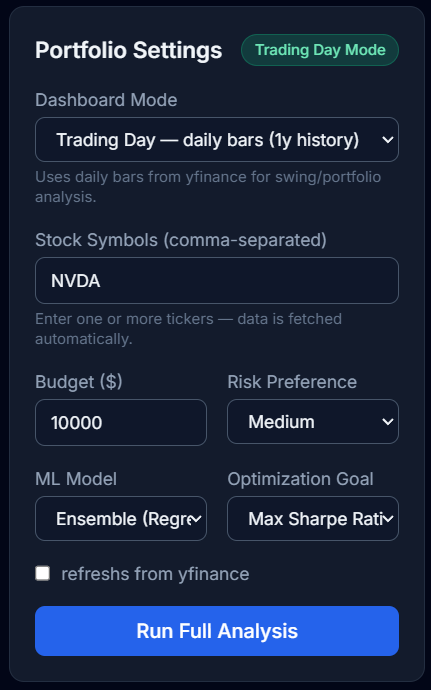
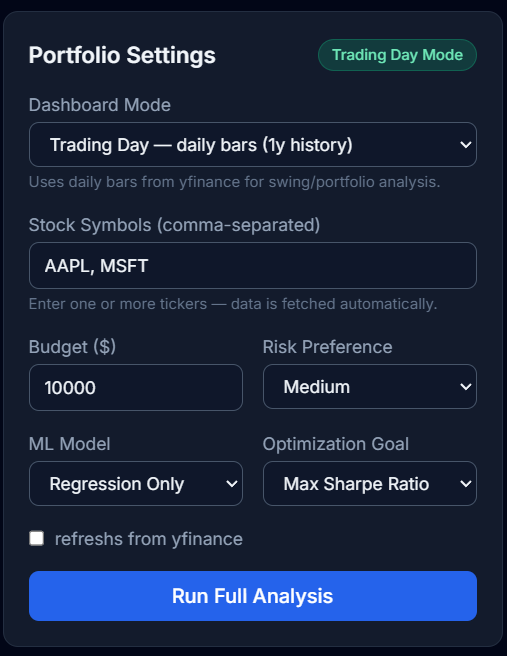
- images

diff --git a/frontend/src/components/PriceTrendChart.jsx b/frontend/src/components/PriceTrendChart.jsx
@@ -2,10 +2,13 @@ import { CartesianGrid, Legend, Line, LineChart, ResponsiveContainer, Tooltip, X
 
 const COLORS = ['#3b82f6', '#10b981', '#f59e0b', '#ef4444', '#8b5cf6']
 
-function formatDateLabel(date) {
+function formatDateLabel(date, mode) {
   if (!date) return ''
-  // Normalize for both ISO dates (YYYY-MM-DD) and ISO datetimes (YYYY-MM-DD HH:mm:ss)
   const d = String(date)
+  if (mode === 'intraday' && d.includes(' ')) {
+    const timePart = d.split(' ')[1]
+    return timePart ? timePart.slice(0, 5) : d
+  }
   const datePart = d.includes(' ') ? d.split(' ')[0] : d
   if (!datePart.includes('-')) return d
   const mm = datePart.slice(5, 7)
@@ -24,7 +27,7 @@ function isMMDD(dateStr) {
   return typeof dateStr === 'string' && dateStr.length === 5 && dateStr[2] === '-'
 }
 
-export default function PriceTrendChart({ priceHistory = {}, selectedSymbol, mode = 'daily' }) {
+export default function PriceTrendChart({ priceHistory = {}, selectedSymbol, mode = 'daily', livePriceHistory = {} }) {
   const todayMMDD = getTodayMMDD()
   const symbols = selectedSymbol ? [selectedSymbol] : Object.keys(priceHistory).slice(0, 4)
 
@@ -34,7 +37,7 @@ export default function PriceTrendChart({ priceHistory = {}, selectedSymbol, mod
 
   const chartData = dates
     .map((date, i) => {
-      const label = formatDateLabel(date)
+      const label = formatDateLabel(date, mode)
       const point = { date: label, fullDate: date }
       symbols.forEach((sym) => {
         point[sym] = priceHistory[sym]?.[i]?.close
@@ -43,6 +46,7 @@ export default function PriceTrendChart({ priceHistory = {}, selectedSymbol, mod
     })
     .filter((p) => {
       if (!p?.date) return false
+      if (mode === 'intraday') return true
       if (!isMMDD(p.date)) return true
 
       const [mm, dd] = p.date.split('-')
@@ -51,22 +55,36 @@ export default function PriceTrendChart({ priceHistory = {}, selectedSymbol, mod
       const [tmm, tdd] = todayMMDD.split('-')
       const todayToNumber = Number(tmm) * 100 + Number(tdd)
 
-      // Keep points through today's label (inclusive)
       return labelToNumber <= todayToNumber
     })
 
-  // Ensure the chart extends through today's MM-DD label even if the latest yfinance
-  // daily bar is from a previous date (market may not have closed yet).
-  // We append a synthetic last point using the latest available close for each symbol.
-  const lastPoint = chartData[chartData.length - 1]
-  if (lastPoint && lastPoint.date !== todayMMDD) {
-    const next = { date: todayMMDD, fullDate: todayMMDD }
-    symbols.forEach((sym) => {
-      next[sym] = lastPoint?.[sym]
-    })
-    chartData.push(next)
+  // Append synthetic today point only in daily mode
+  if (mode !== 'intraday') {
+    const lastPoint = chartData[chartData.length - 1]
+    if (lastPoint && lastPoint.date !== todayMMDD) {
+      const next = { date: todayMMDD, fullDate: todayMMDD }
+      symbols.forEach((sym) => {
+        next[sym] = lastPoint?.[sym]
+      })
+      chartData.push(next)
+    }
   }
 
+
+  // Append live WebSocket price points for real-time intraday chart
+  if (mode === 'intraday') {
+    const liveSymbols = symbols.filter((sym) => livePriceHistory[sym]?.length > 0)
+    if (liveSymbols.length > 0) {
+      const count = livePriceHistory[liveSymbols[0]].length
+      for (let i = 0; i < count; i++) {
+        const point = { date: livePriceHistory[liveSymbols[0]][i].date, fullDate: '' }
+        liveSymbols.forEach((sym) => {
+          point[sym] = livePriceHistory[sym][i]?.close ?? null
+        })
+        chartData.push(point)
+      }
+    }
+  }
 
   return (
 

diff --git a/frontend/src/App.jsx b/frontend/src/App.jsx
@@ -62,6 +62,24 @@ export default function App() {
   })
 
 
+  // Accumulate WebSocket prices into rolling history for real-time chart
+  const liveHistoryRef = useRef({})
+  const [livePriceHistory, setLivePriceHistory] = useState({})
+
+  useEffect(() => {
+    if (!wsLivePrices.length) return
+    const now = new Date().toLocaleTimeString('en-US', { hour12: false })
+    const next = { ...liveHistoryRef.current }
+    wsLivePrices.forEach((item) => {
+      const sym = item.symbol
+      const prev = next[sym] || []
+      next[sym] = [...prev, { date: now, close: Number(item.price ?? 0) }]
+      if (next[sym].length > 60) next[sym] = next[sym].slice(-60)
+    })
+    liveHistoryRef.current = next
+    setLivePriceHistory(next)
+  }, [wsLivePrices])
+
   // Warm-up Render backend on mount to trigger cold start early
   useEffect(() => { fetchHealth().catch(() => {}) }, [])
 
@@ -166,7 +184,7 @@ export default function App() {
             )}
 
             {displayData && (
-              <div key={isFresh ? displayData.timestamp || 'fresh' : 'cached'}>
+              <div key={isFresh ? displayData.timestamp || 'fresh' : 'cached'} className="space-y-6">
                 <div className="animate-fade-in-up">
                   <MarketStatusBar
                     dataSource={displayData.data_source}
@@ -187,7 +205,7 @@ export default function App() {
                   <RiskReturnChart predictions={displayData.predictions} riskAnalysis={displayData.risk_analysis} />
                 </div>
                 <div className="animate-fade-in-up" style={{ animationDelay: '320ms' }}>
-                  <PriceTrendChart priceHistory={displayData.price_history} mode={displayData.mode} />
+                  <PriceTrendChart priceHistory={displayData.price_history} mode={displayData.mode} livePriceHistory={livePriceHistory} />
                 </div>
                 <div className="animate-fade-in-up" style={{ animationDelay: '400ms' }}>
                   <ClusterView clusterSummary={displayData.cluster_summary} />

diff --git a/README.md b/README.md
@@ -1,21 +1,38 @@
 # FinOptima
 
+<div align="center"> ![OSCG 2026](/docs/oscg%202026.jpeg) </div>
+
 ## AI-Powered Portfolio Optimization System
 
 FinOptima is an AI-driven financial analytics platform built for **OSC AI Build 1.0**, a global hackathon organized by Open Source Connect (OSC). The project combines live market data, machine learning, clustering, and portfolio optimization to help users analyze stocks and generate smart investment insights in an interactive dashboard.
 
 ---
-
+<div align="center"> ![design](/docs/Finoptima.png) </div>
 ## Dashboard Showcase
 
 ### Main Analytics Interface
-![FinOptima Main Dashboard UI](docs/Interactive-Interface.png)
+<div align="center"> ![FinOptima Main Dashboard UI](docs/Interactive-Interface.png) </div>
 
 ### Live Price Board
-![Live Prices of Stocks](docs/Live%20Price%20Board.png)
+<div align="center"> ![Live Prices of Stocks](docs/Live%20Price%20Board.png) </div>
+
+### Portfolio Summary
+<div align="center"> ![Portfolio Summary](/docs/Portfolio%20Summary.png)</div>
 
 ### Asset Allocation Charting Panel
-![FinOptima Portfolio Weights and Recharts Panel](docs/allocation.png)
+<div align="center"> ![FinOptima Asset Allocation](docs/allocation.png) </div>
+
+### Expected Return vs Volatility
+<div align="center"> ![FinOptima Returns](/docs/Returns.png) </div>
+
+### Price Trends (Daily)
+<div align="center"> ![FinOptima Trends](/docs/Price%20Trends%20(Daily).png) </div>
+
+### Price Trends (Intraday)
+<div align="center"> ![FinOptima Trends Intraday](/docs/Price%20Trends%20\(Intraday.png)) </div>
+
+### Stock Clusters && Correlation Matrix & Stock Analysis Table 
+<div align="center"> ![FinOptima Trends Intraday](/docs/clusters%20corr%20Matrix%20and%20analysis%20table.png) </div>
 
 
 ---
@@ -23,6 +40,8 @@ FinOptima is an AI-driven financial analytics platform built for **OSC AI Build 
 ## Abstract
 
 FinOptima is designed to showcase how open-source AI can be applied to financial decision-making. Users enter stock symbols and investment preferences, and the system fetches market data, engineers financial features, predicts short-term returns using machine learning, groups similar assets through clustering, and computes optimized portfolio allocations. The results are displayed in a clean, responsive dashboard with live prices, prediction signals, risk metrics, and allocation charts.
+
+> **📘 Comprehensive technical documentation including ML model details, training methodology, feature engineering, evaluation metrics, benchmarks, and sample outputs is available at [`docs/TECHNICAL_DETAILS.md`](docs/TECHNICAL_DETAILS.md).**
 
 ## Why This Project
 
@@ -53,10 +72,20 @@ This hackathon project focuses on building a practical AI system that is:
 
 ---
 
-## Performance Note: Local vs. Cloud Deployment
+## Performance: Local vs. Cloud Deployment
 
-* **Local Workspace (Recommended for Evaluators)**: Executes instantly (~5 to 10 seconds). It leverages your local computer's unthrottled CPU cores and high-speed memory to train model weight matrices in eager memory space rapidly.
-* **Live Web Instance (https://finoptima-gts9.onrender.com)**: Processes requests within ~20- 30 seconds. Powered by an optimized, non-persistent, 100% in-memory RAM vector data pool to comply with cloud free-tier memory resource limits.
+| Metric | Local (8-core, 16 GB) | Render Free Tier (512 MB) |
+|--------|----------------------|--------------------------|
+| Full pipeline (5 symbols, no LSTM) | ~3–5 s | ~20–30 s |
+| Full pipeline (10 symbols, no LSTM) | ~5–8 s | ~40–60 s |
+| LSTM training (8 epochs, 5 symbols) | ~8–12 s | Disabled (OOM risk) |
+| Memory usage (5 symbols) | ~200 MB | ~350 MB |
+| Data freshness | Real-time | Up to 2 min delay (yfinance cache + rate limits) |
+
+**Key differences:**
+- **Local execution** uses unthrottled CPU and full RAM for fast model training.
+- **Render free tier** runs on shared CPU with 512 MB RAM ceiling. All operations are optimized for in-memory execution — no disk I/O, no SQLite, no CSV writes.
+- LSTM is disabled on Render (`ENABLE_LSTM=false`) because TensorFlow allocates 300–400 MB at load time, exceeding the free tier limit during concurrent requests.
 
 ---
 
@@ -146,6 +175,37 @@ ai-portfolio-optimizer/
 | POST | `/api/optimize` | Portfolio optimization |
 | POST | `/api/full-analysis` | Complete pipeline (dashboard) |
 
+
+## Demo Video
+
+[![FinOptima Demo](docs/Interactive-Interface.png)](https://youtu.be/your-demo-video-link)
+
+To be Added
+
+## Sample Output
+
+A complete sample request and response is documented in [`docs/TECHNICAL_DETAILS.md`](docs/TECHNICAL_DETAILS.md#sample-expected-outputs).
+
+Quick example (5-stock daily analysis with `optimization_goal="max_sharpe"`, `risk_preference="medium"`):
+
+| Asset | Weight | Predicted Return | Trend | Confidence |
+|-------|--------|-----------------|-------|------------|
+| AAPL | 25% | +0.85% | Upward | 72.3 |
+| MSFT | 20% | +0.62% | Upward | 68.1 |
+| GOOGL | 15% | +0.38% | Upward | 55.4 |
+| NVDA | 30% | +1.10% | Upward | 81.5 |
+| TSLA | 10% | -0.22% | Downward | 45.2 |
+
+| Metric | Value |
+|--------|-------|
+| Expected annual return | 12.45% |
+| Expected annual volatility | 18.20% |
+| Sharpe ratio | 0.574 |
+| Max drawdown | -28.30% |
+| VaR (95%) | -2.45% |
+| CVaR (95%) | -3.08% |
+
+> Full JSON response structure is shown in the technical documentation.
 
 ## Output format
 

diff --git a/docs/TECHNICAL_DETAILS.md b/docs/TECHNICAL_DETAILS.md
@@ -2,6 +2,8 @@
 
 ## System Architecture
 
+![System Architecture](/docs/System%20Architecture.png)
+
 ```
 ┌──────────┐     ┌──────────────────────────────────────┐     ┌──────────────┐
 │  React   │ ◄──► │         FastAPI Backend              │ ◄──► │   yfinance   │
@@ -18,6 +20,18 @@
 ```
 
 All data processing is 100% in-memory. No disk I/O occurs during request handling (CSV generation is a separate dev-only utility).
+
+### Sample Data
+
+Pre-fetched daily and intraday CSV files for 28 major US equities and ETFs are available in the [`live_data/`](../live_data) directory at the project root:
+
+The datasets were fetched on 12 June.
+| Folder | Contents |
+|---|---|
+| `live_data/daily/` | 28 CSV files, each with 1 year of daily OHLCV data (AAPL, MSFT, GOOGL, AMZN, TSLA, META, NVDA, JPM, NFLX, AMD, AVGO, COST, KO, PEP, WMT, PG, V, BAC, JNJ, UNH, XOM, CAT, GE, LIN, SPY, QQQ, IWM, GLD) |
+| `live_data/intraday/` | Intraday 5m bars for AAPL, MSFT, GOOGL, NVDA (under `5m/` subfolder) |
+
+These can be used with the `sample` data provider for testing without yfinance calls. The generator script is at `backend/app/utils/sample_data_generator.py`.
 
 ---
 
@@ -37,8 +51,8 @@ All data processing is 100% in-memory. No disk I/O occurs during request handlin
 
 | Mode | Period | Interval | Min rows |
 |---|---|---|---|
-| `"daily"` | `"1y"` | `"1d"` | 5 |
-| `"intraday"` | `"5d"` | `"5m"` | 20 |
+| `"daily"` | `"6mo"` | `"1d"` | 5 |
+| `"intraday"` | `"2d"` | `"5m"` | 20 |
 
 ### 2. Feature Engineering (`preprocessing.py`)
 
@@ -80,7 +94,7 @@ Applied per-symbol chronologically:
 
 - **Target:** Next-period return (`daily_return.shift(-1)`)
 - **Train/test split:** 80/20 chronological (`shuffle=False`)
-- **Minimum training rows:** 30
+- **Minimum training rows:** 20
 - **Scaling:** `StandardScaler` applied only to LinearRegression (Random Forest uses raw values)
 - **Selection:** Model with lower MAE on the 20% test set is used for predictions
 
@@ -221,8 +235,8 @@ Computes implied equilibrium returns via reverse optimization, then blends with 
 
 | Goal | Objective |
 |---|---|
-| `"sharpe"` | Maximize `(return - RFR) / (vol × risk_multiplier)` |
-| `"volatility"` | Minimize `sqrt(wᵀΣw)` |
+| `"max_sharpe"` | Maximize `(return - RFR) / (vol × risk_multiplier)` |
+| `"min_volatility"` | Minimize `sqrt(wᵀΣw)` |
 
 ### Risk Preference Multipliers
 
@@ -300,7 +314,7 @@ POST /api/full-analysis
   "mode": "daily",
   "budget": 10000,
   "risk_preference": "medium",
-  "optimization_goal": "sharpe"
+  "optimization_goal": "max_sharpe"
 }
 ```
 